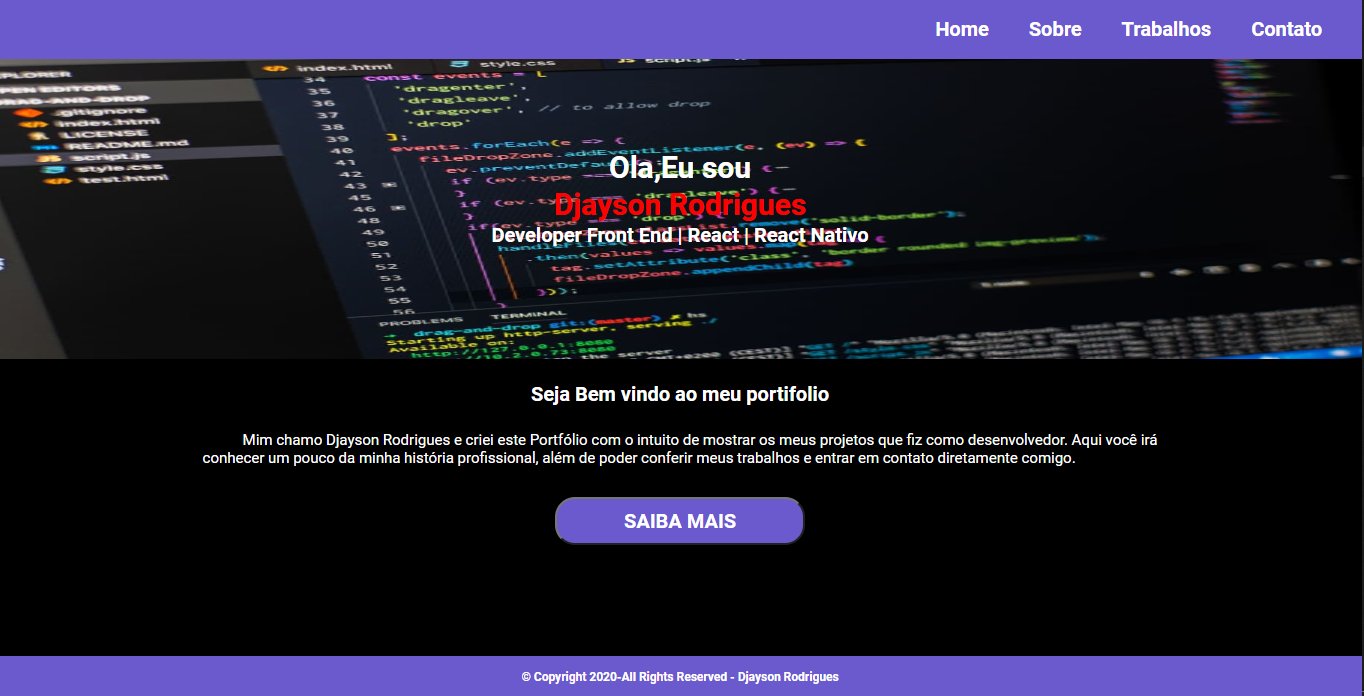
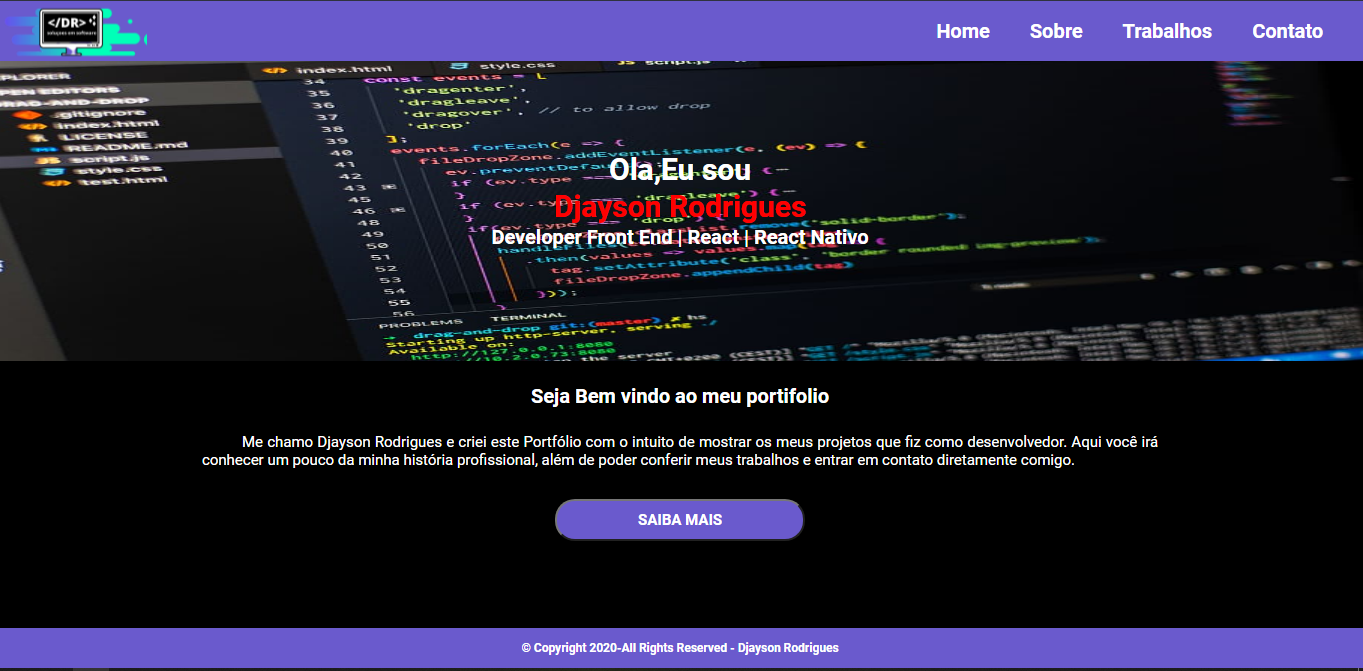
Finalizing project animations and updating readme.md

diff --git a/src/components/pages/works/index.js b/src/components/pages/works/index.js
@@ -1,6 +1,6 @@
 import React from 'react';
 
- import './styles.css';
+import './styles.css';
 import Img from '../../../assets/home.png';
 import Img2 from '../../../assets/bethehero.png';
 import Img3 from '../../../assets/devradar.jpg';
@@ -8,45 +8,45 @@ import Img3 from '../../../assets/devradar.jpg';
 function Works() {
   return (
     <div className="containe">
-        
-         <h1>Trabalhos</h1>
-       
-        <main className="project-list">
-          <article>
-            <header>
-           <span>Frontend</span>
-           <p>Portfolio</p> 
-            </header>
-            <img src={Img} alt="Imagem do projeto portifolio"/>
-            <footer>
+
+      <h1>Trabalhos</h1>
+
+      <main className="project-list">
+        <article className="animation1">
+          <header>
+            <span>Frontend</span>
+            <p>Portfolio</p>
+          </header>
+          <img src={Img} alt="Imagem do projeto portifolio" />
+          <footer>
             <button><a href="https://github.com/Djaysson/Reactjs-portifolio/blob/master/static/home.png">demo</a></button>
-              <button><a href="https://github.com/Djaysson/Reactjs-portifolio">github</a></button>
-            </footer>
-          </article>
-          <article>
-            <header>
-           <span>Fullstack</span>
-           <p>Be the hero</p> 
-            </header>
-            <img src={Img2} alt="Imagem do projeto portifolio"/>
-            <footer>
+            <button><a href="https://github.com/Djaysson/Reactjs-portifolio">github</a></button>
+          </footer>
+        </article>
+        <article className="animation2">
+          <header>
+            <span>Fullstack</span>
+            <p>Be the hero</p>
+          </header>
+          <img src={Img2} alt="Imagem do projeto portifolio" />
+          <footer>
             <button><a href="https://github.com/Djaysson/Reactjs-portifolio/blob/master/static/home.png">demo</a></button>
-              <button><a href="https://github.com/Djaysson/Project-BeTheHero">github</a></button>
-            </footer>
-          </article>
-          <article>
-            <header>
-              <span>Fullstack</span>
-              <p>devradar</p> 
-            </header>
-            <img src={Img3} alt="Imagem do projeto portifolio"/>
-            <footer>
+            <button><a href="https://github.com/Djaysson/Project-BeTheHero">github</a></button>
+          </footer>
+        </article>
+        <article className="animation3">
+          <header>
+            <span>Fullstack</span>
+            <p>devradar</p>
+          </header>
+          <img src={Img3} alt="Imagem do projeto portifolio" />
+          <footer>
             <button><a href="https://github.com/Djaysson/Reactjs-portifolio/blob/master/static/home.png">demo</a></button>
-              <button><a href="https://github.com/Djaysson/Devradar">github</a></button>
-            </footer>
-          </article>
-         
-        </main>
+            <button><a href="https://github.com/Djaysson/Devradar">github</a></button>
+          </footer>
+        </article>
+
+      </main>
     </div>
   );
 }

diff --git a/src/components/pages/about/styles.css b/src/components/pages/about/styles.css
@@ -10,7 +10,8 @@
   width: 200px;
   height: 350px;
   padding: 60px 20px 0px 20px;
- 
+  animation: fadeInLeft; 
+  animation-duration: 2s; 
 }
 .conteudo{
   width: 70%;
@@ -22,17 +23,22 @@
   padding: 20px 20px 0px 20px;
   
 }
-.conteudo strong{
+.title {
+ display: flex;
+}
+.title strong{
  color:#6A5ACD;
  font-size: 30px;
  padding-right: 10px;
-
-
+ animation: lightSpeedInLeft; 
+  animation-duration: 2s; 
 }
-.conteudo h2{
+.title h2{
   color: #fff; 
  font-size: 30px;
  margin-bottom: 25px;
+ animation: lightSpeedInRight; 
+  animation-duration: 2s; 
 }
 .conteudo p{
   width: 80%;
@@ -40,4 +46,6 @@
  font-size: 14px;
  text-indent: 40px;
  padding: 5px;
+ animation: fadeInUp;  
+ animation-duration: 2s; 
 }

diff --git a/src/components/pages/about/index.js b/src/components/pages/about/index.js
@@ -9,8 +9,10 @@ const Sobre = () => {
       <div className="sobre">
         <img src={Img} alt="perfil" />
         <div className="conteudo">
-          <h2><strong>Sobre</strong>Mim</h2>
-
+          <div className="title">
+            <strong>Sobre</strong>
+            <h2>Mim</h2>
+          </div>
           <p>
             Me chamo Djayson Rodrigues sou desenvolvedor Frontend de aplicações
             web e mobile, sou cientista da computação, tenho 27 anos, graduando
@@ -25,7 +27,7 @@ const Sobre = () => {
             projeto que vai de frontend, backend, mobile.
           </p>
         </div>
-      </div>
+      </div >
       <Habilidades />
     </>
   );

diff --git a/src/components/pages/works/styles.css b/src/components/pages/works/styles.css
@@ -15,6 +15,8 @@
   margin-bottom: 30px;
   color: #fff;
   margin-top: 3rem;
+  animation: fadeInLeft;  
+    animation-duration: 2s; 
 }
 .project-list {
   display: grid;
@@ -62,4 +64,16 @@
 .project-list button:hover{
   background-color: rgb(231, 227, 227);
 
+}
+.animation1{
+  animation: fadeInLeft;  
+  animation-duration: 4s; 
+}
+.animation2{
+  animation: fadeInLeft;  
+  animation-duration: 3s; 
+}
+.animation3{
+  animation: fadeInLeft;  
+  animation-duration: 2s; 
 }

diff --git a/src/components/pages/contact/styles.css b/src/components/pages/contact/styles.css
@@ -12,7 +12,8 @@
     font-size: 40px;
     font-weight: bold;
     padding-top:20px ;
-
+    animation: fadeInLeft;  
+    animation-duration: 2s; 
 }
 .contact-form {
     font: 400 14px Roboto, sans-serif;
@@ -23,6 +24,8 @@
     margin: auto;
     margin-top: 30px;
     box-shadow:  0 0 1.2em #6A5ACD;
+    animation: fadeInLeft;  
+    animation-duration: 2s; 
     }
 .contact-form input{
 padding: 5px 5px;

diff --git a/src/components/pages/skills/styles.css b/src/components/pages/skills/styles.css
@@ -5,14 +5,15 @@
   flex-direction: column;
   align-items: center;
   padding-left: 170px;
- 
-  
-  
+  animation: fadeInUp;  
+  animation-duration: 2s; 
 }
 .progresso h2{
   font-size: 30px;
   margin: 20px;  
   padding-left: 80px;
+  animation: lightSpeedInLeft; 
+  animation-duration: 2s; 
 }
 .progresHabilidades{
   display: flex;

diff --git a/README.md b/README.md
@@ -1,11 +1,29 @@
+<p align="center"><img src="./src/assets/home.png" ></img>
 <h1 align="center">Projeto Portfólio</h1>
-<img src="https://github.com/Djaysson/Reactjs-portifolio/blob/master/static/home.png" align="center"></img>
+<p align="center">O projeto foi desenvolvido para desmostra meus trablhos de desenvolvedor</p>
 
+<<<<<<< HEAD
+ 
+## Instalação 
+Para instalar as dependências e executar o **Reactjs-portifolio** você vai precisa do yarn instalado em sua máquina, o outro passo é você clona o projeto em seu computador e em seguida execute:
+=======
   ## Instalação 
-Para instalar as dependências e executar o **Servidor** (modo desenvolvimento), clone o projeto em seu computador e em seguida execute:
+Para instalar as dependências e executar o **Reactjs-portifolio** (modo desenvolvimento), clone o projeto em seu computador e em seguida execute:
+>>>>>>> 9ed7b462015a938a8e9b1b4a72a5857fce4d10f1
 
 ```bash
 cd Reactjs-portifolio
 yarn install
 yarn start
 ```
+## Autor
+**Djayson Rodrigues** - [LinkedIn](https://br.linkedin.com/in/djaysonrodrigues)
+
+
+
+## Frontend
+
+<img align="center" src="./src/assets/githome.gif"></img>
+
+## Licença
+[MIT](./LICENSE)
